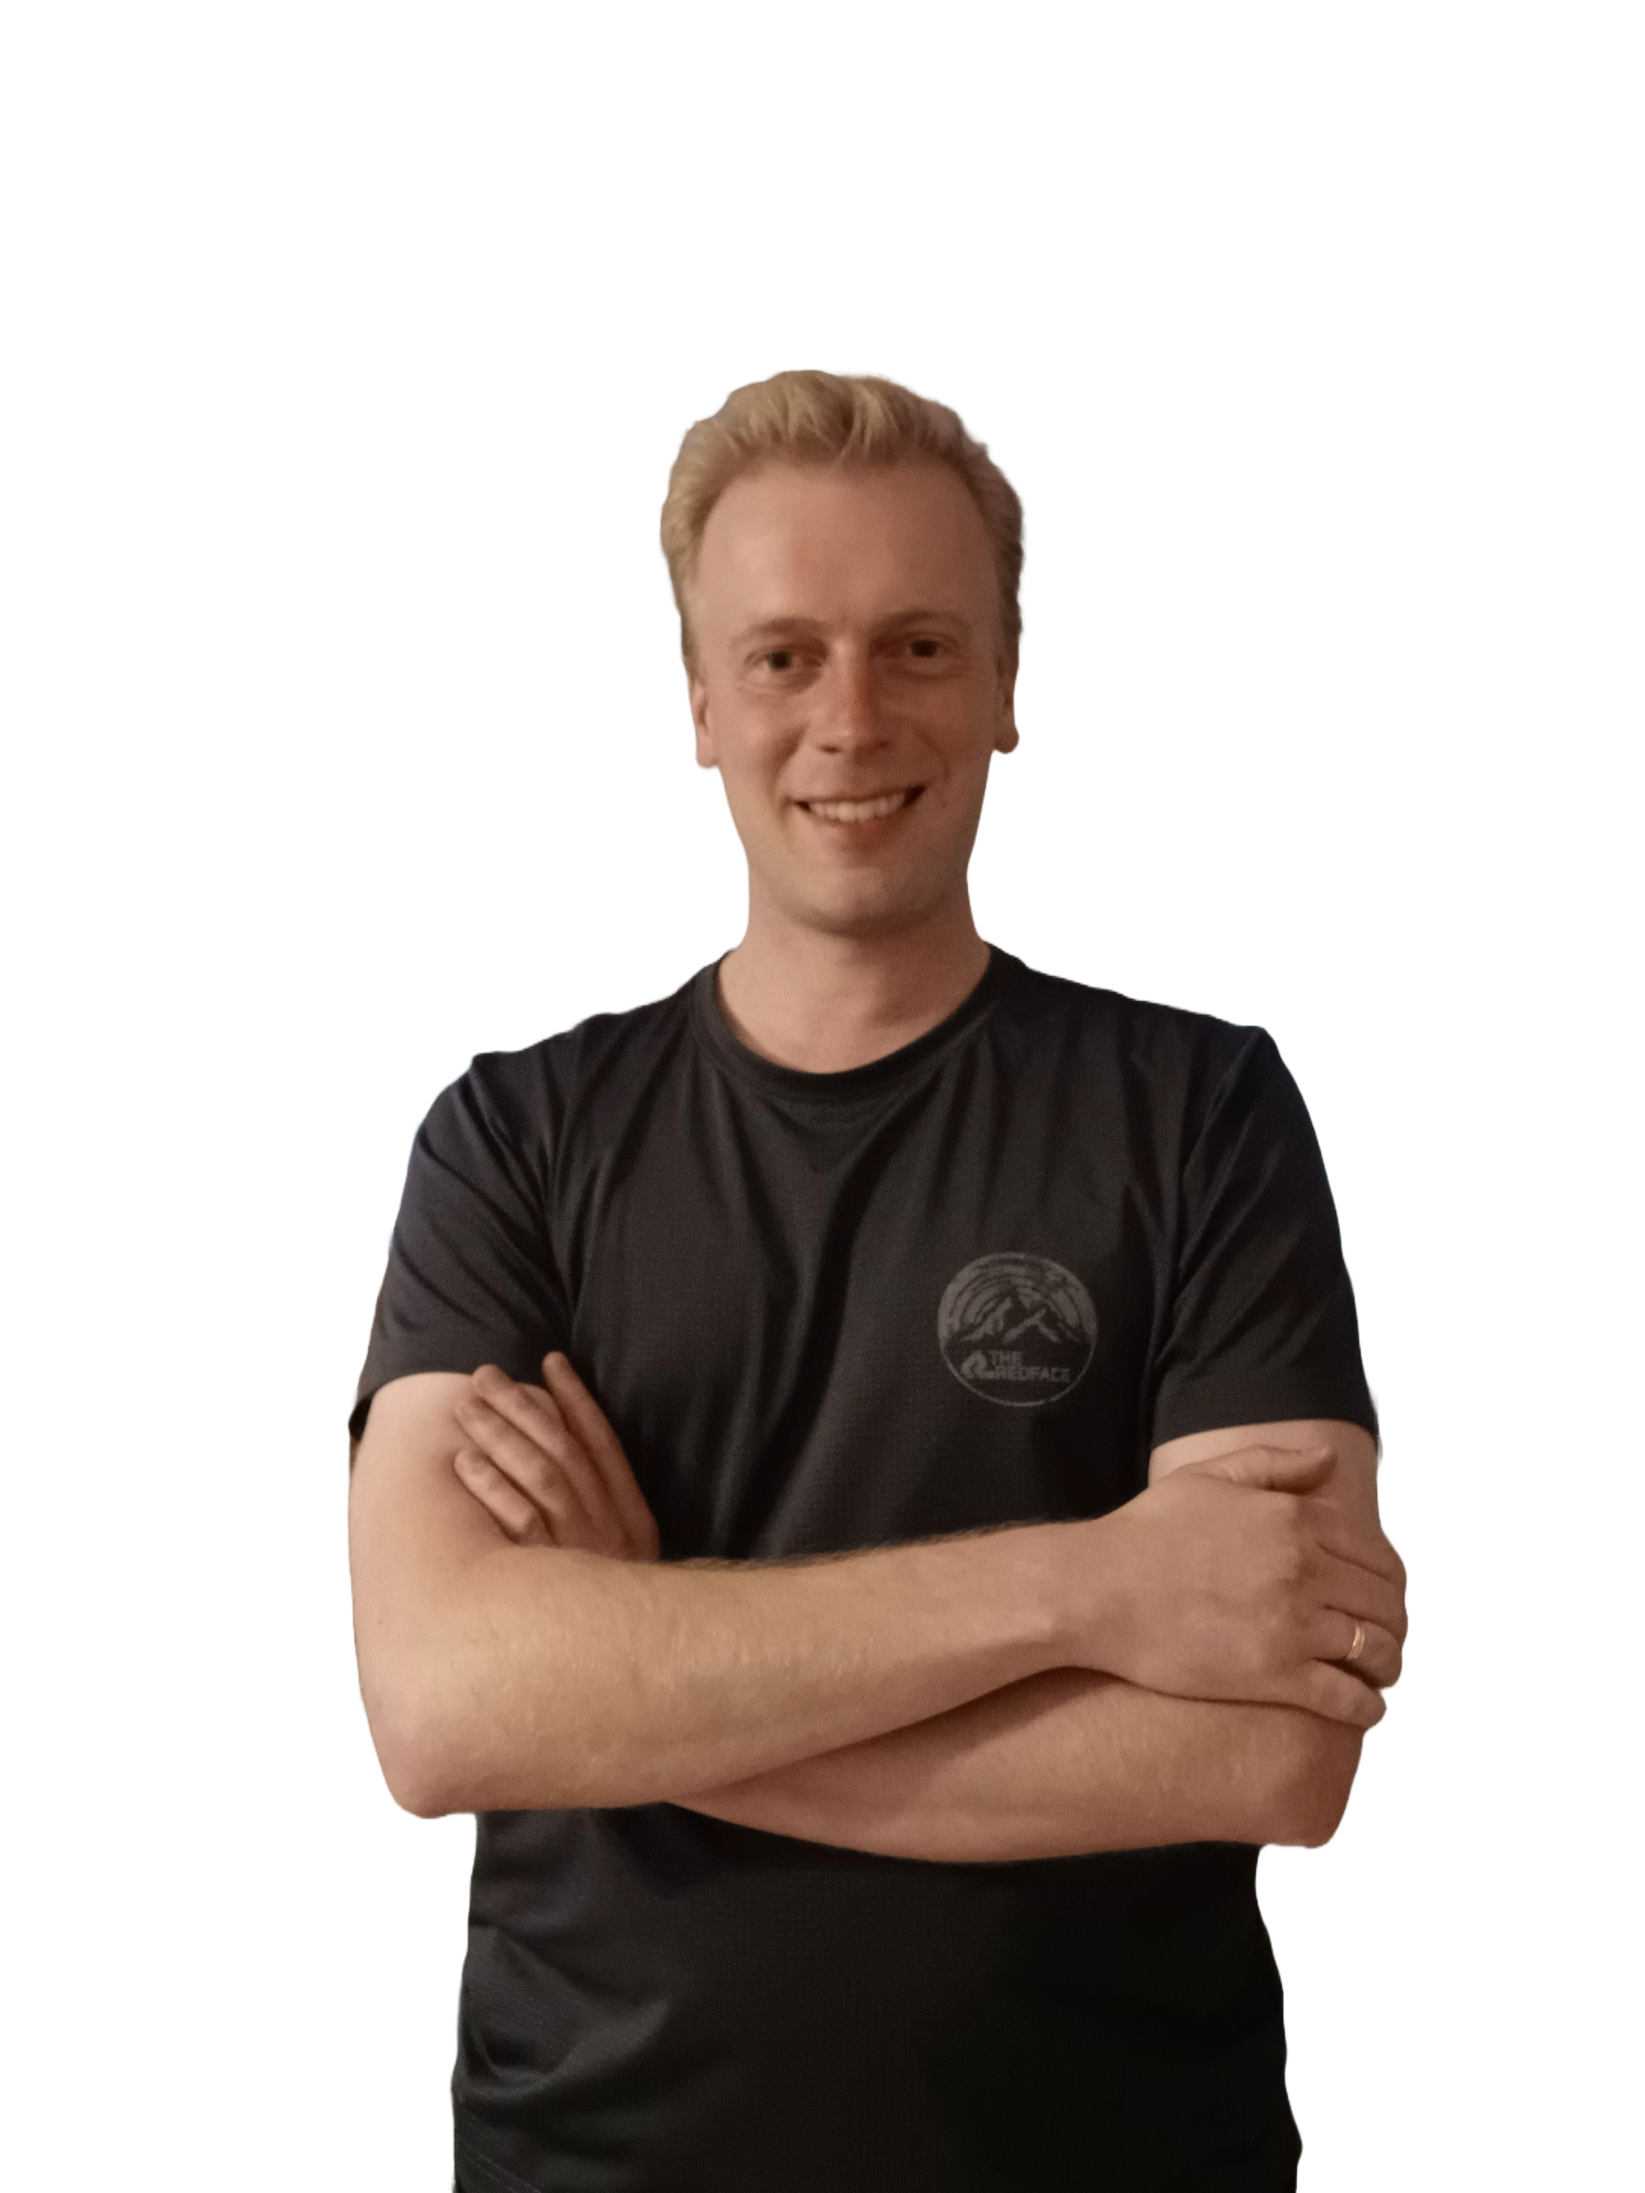
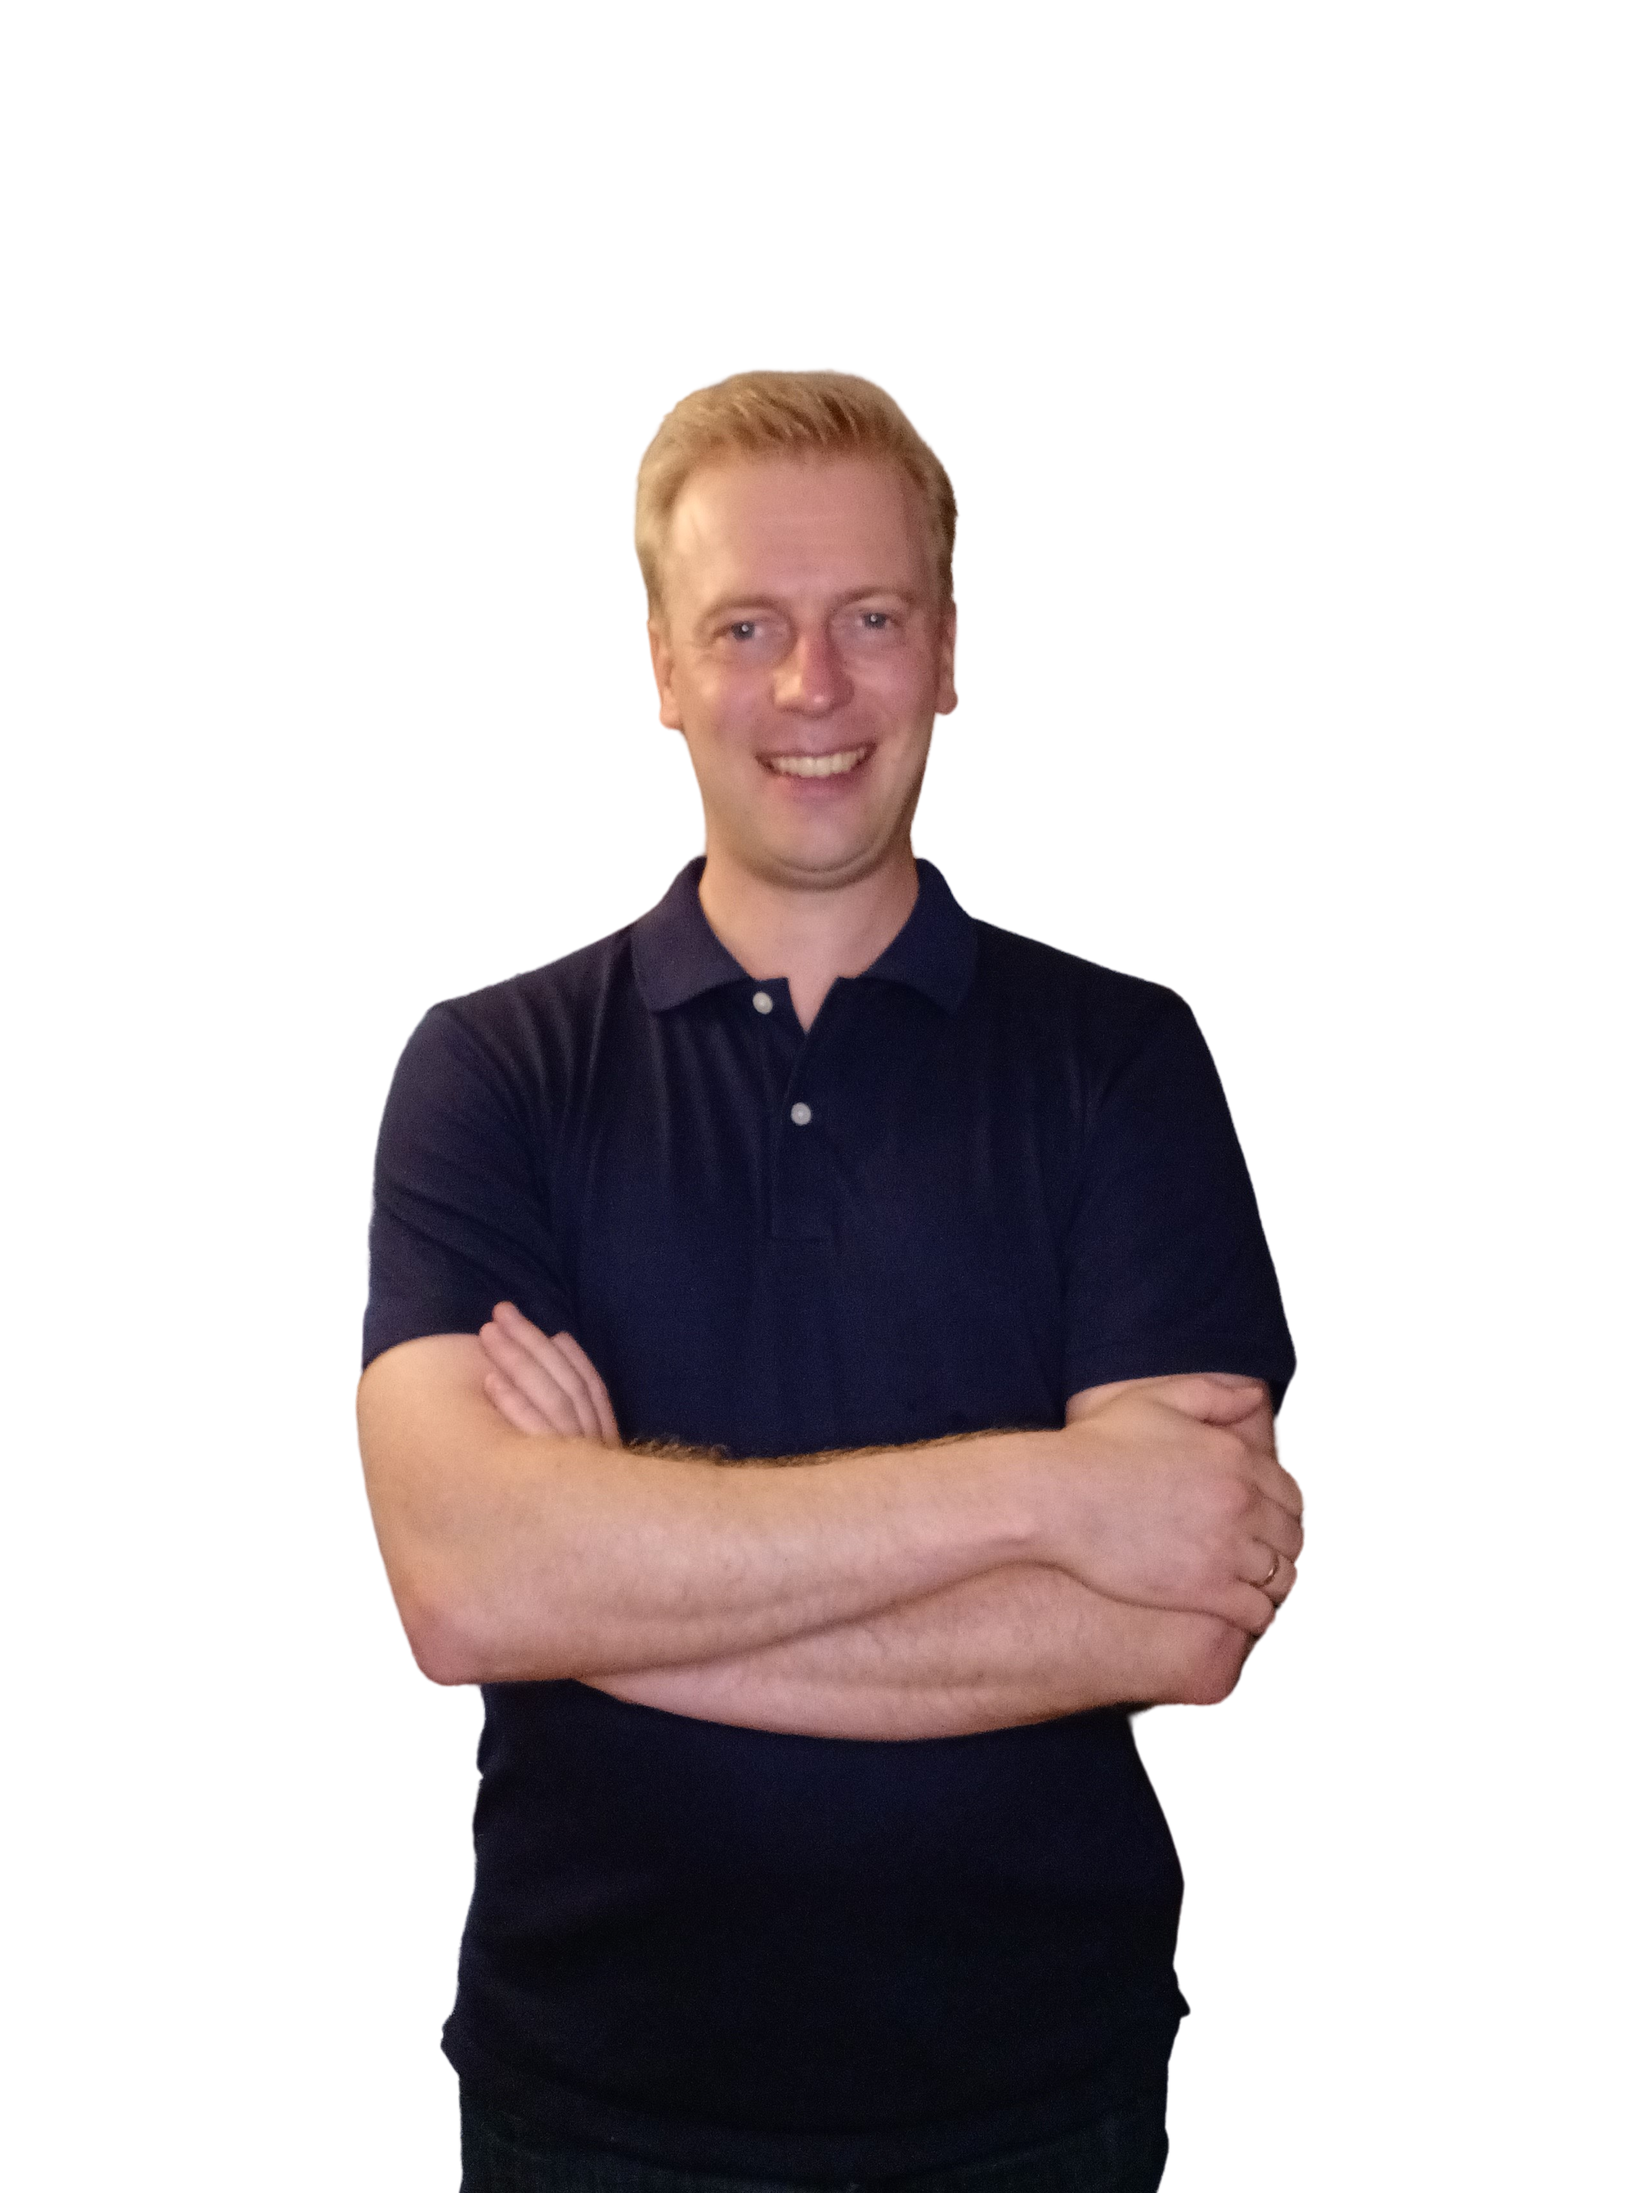
new pics

Changed region(s): [[0.1854, 0.1555, 0.8654, 1.0], [0.4327, 0.9953, 0.4945, 1.0]]

diff --git a/src/app/main-page/about-me/about-me.component.scss b/src/app/main-page/about-me/about-me.component.scss
@@ -31,10 +31,7 @@ p {
         @include flexParams(flex-end,center);        
         height: 450px;
         width: 450px;               
-        overflow: hidden;
-        >img {
-            height: 550px;
-        }
+        overflow: hidden;        
     } 
       
 }
@@ -119,7 +116,7 @@ p {
             width: 350px;
             height: 350px;
             >img {
-                height: 420px;
+                height: 360px;
             }
         }
     }
